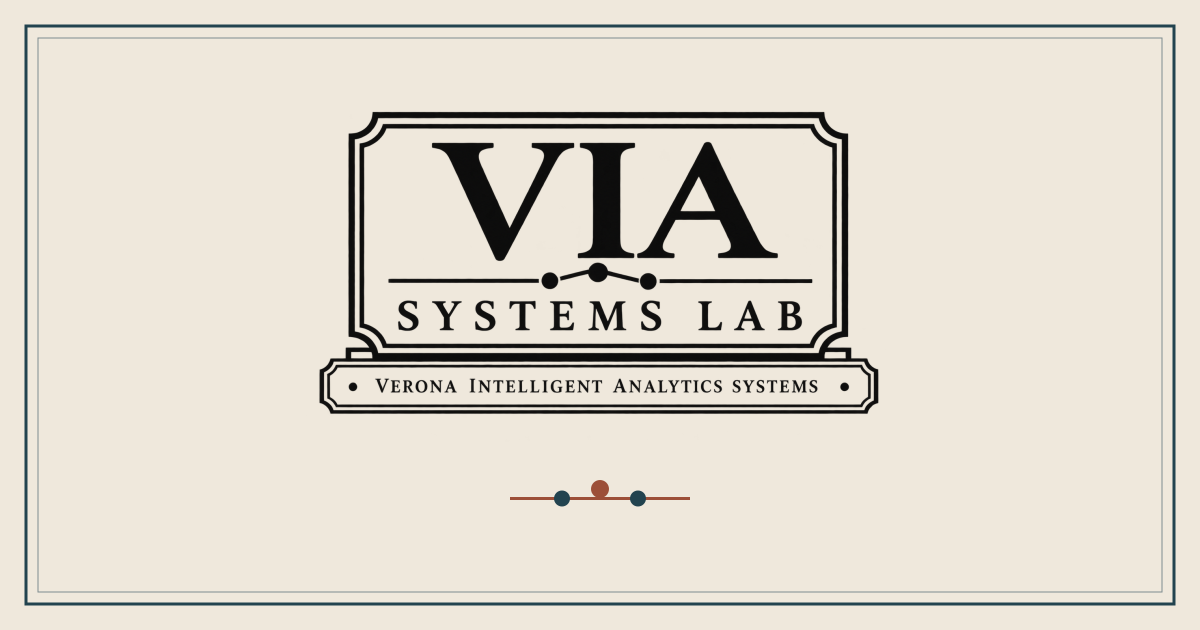
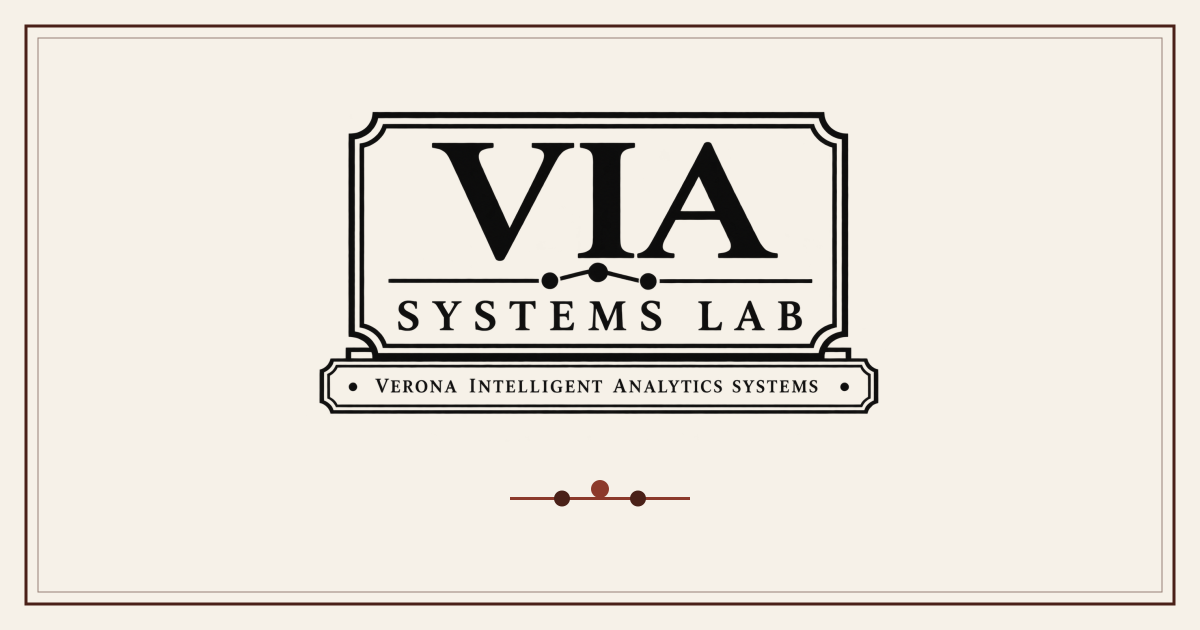
build(assets): move the generated artwork onto the palette [BOT]
The social card, the app icons and the favicon source were still drawn in
the previous brand: the old cream, the old petrol and the terracotta. The
pages moved to paper, oxblood and brick, so a link unfurling on someone
else's site showed a design this one no longer uses, and a rebuild would
have published it again.

The constants are renamed for the tokens they copy, and the comment says
to change them with the tokens. The manifest declared colours from an
older palette still, and its description carried an em dash.

diff --git a/tools/build_assets.py b/tools/build_assets.py
@@ -49,9 +49,13 @@ SITEMAP_PAGES = [
 ]
 
 # Brand colours, kept in step with the tokens at the top of css/custom.css.
-TRAVERTINE = "#efe8dc"
-PETROL = "#22434f"
-TERRACOTTA = "#9c4f38"
+# These are --page-paper, --petrol and --signal. The social card and the app
+# icons are the only artwork generated here that carries the palette, so when
+# a token changes, change it here and rebuild, or the card that unfurls on
+# someone else's site will be a redesign out of date.
+PAPER = "#f6f1e8"
+OXBLOOD = "#4a2118"
+BRICK = "#8c3a2b"
 
 
 def run(cmd: list[str]) -> None:
@@ -200,14 +204,14 @@ def build_og_card(tmp: str) -> list[str]:
     plaque = data_uri(os.path.join(ORIGINALS, "via-logo-horizontal-b.png"))
     svg = f"""<svg xmlns="http://www.w3.org/2000/svg" xmlns:xlink="http://www.w3.org/1999/xlink"
      width="1200" height="630" viewBox="0 0 1200 630">
-  <rect width="1200" height="630" fill="{TRAVERTINE}"/>
-  <rect x="26" y="26" width="1148" height="578" fill="none" stroke="{PETROL}" stroke-width="3"/>
-  <rect x="38" y="38" width="1124" height="554" fill="none" stroke="{PETROL}" stroke-width="1" stroke-opacity=".55"/>
+  <rect width="1200" height="630" fill="{PAPER}"/>
+  <rect x="26" y="26" width="1148" height="578" fill="none" stroke="{OXBLOOD}" stroke-width="3"/>
+  <rect x="38" y="38" width="1124" height="554" fill="none" stroke="{OXBLOOD}" stroke-width="1" stroke-opacity=".55"/>
   <image x="270" y="78" width="660" height="371" xlink:href="{plaque}"/>
-  <rect x="510" y="497" width="180" height="3" fill="{TERRACOTTA}"/>
-  <circle cx="562" cy="498.5" r="8" fill="{PETROL}"/>
-  <circle cx="600" cy="489" r="9" fill="{TERRACOTTA}"/>
-  <circle cx="638" cy="498.5" r="8" fill="{PETROL}"/>
+  <rect x="510" y="497" width="180" height="3" fill="{BRICK}"/>
+  <circle cx="562" cy="498.5" r="8" fill="{OXBLOOD}"/>
+  <circle cx="600" cy="489" r="9" fill="{BRICK}"/>
+  <circle cx="638" cy="498.5" r="8" fill="{OXBLOOD}"/>
 </svg>
 """
     staged = os.path.join(tmp, "og.svg")
@@ -238,7 +242,7 @@ def build_icons(tmp: str) -> list[str]:
     seal = data_uri(os.path.join(ORIGINALS, "via-logo-circle-b.png"))
     svg = f"""<svg xmlns="http://www.w3.org/2000/svg" xmlns:xlink="http://www.w3.org/1999/xlink"
      viewBox="0 0 512 512">
-  <rect width="512" height="512" fill="{TRAVERTINE}"/>
+  <rect width="512" height="512" fill="{PAPER}"/>
   <image x="36" y="36" width="440" height="440" xlink:href="{seal}"/>
 </svg>
 """
